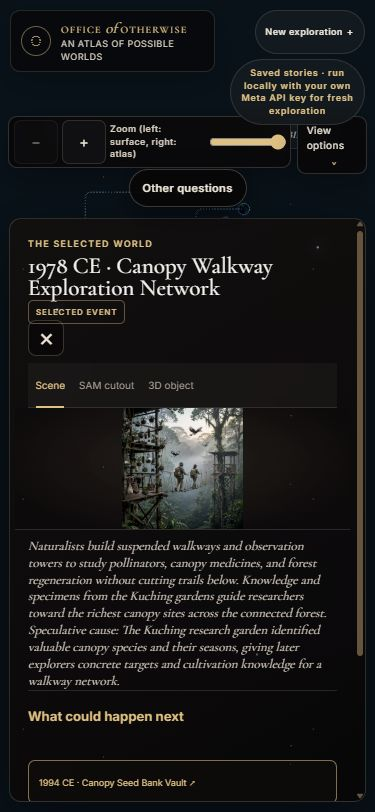
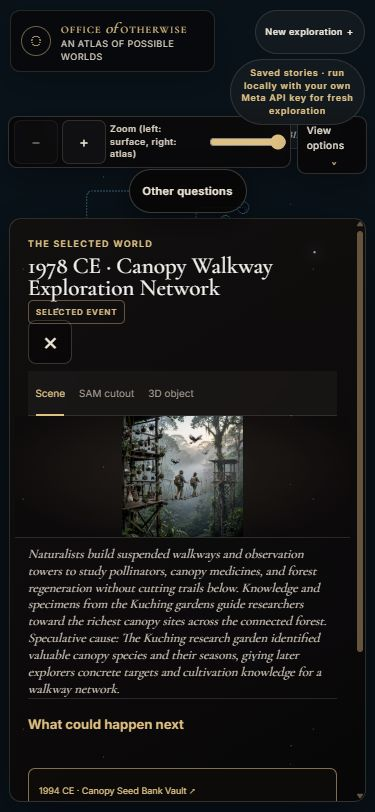
Increase phone question toggle touch target

diff --git a/web/style.css b/web/style.css
@@ -570,7 +570,7 @@ body.invitation-open:has(#atlas-scene[data-atlas-level="atlas"]) .hero-panel{dis
 @media(max-width:430px){
   .map-panel>#atlas-scene{inset:0;width:100%;}
   body.has-story .atlas-toolbar{z-index:11}
-  .atlas-other-questions-toggle{position:absolute;z-index:11;top:169px;left:50%;transform:translateX(-50%);min-height:38px;padding:7px 13px;border:1px solid rgba(236,228,212,.22);border-radius:999px;background:rgba(8,6,7,.92);box-shadow:0 8px 22px #0006;color:var(--parchment);font:600 11px/1 var(--sans);letter-spacing:.03em;cursor:pointer;pointer-events:auto}
+  .atlas-other-questions-toggle{position:absolute;z-index:11;top:169px;left:50%;transform:translateX(-50%);min-height:44px;padding:7px 13px;border:1px solid rgba(236,228,212,.22);border-radius:999px;background:rgba(8,6,7,.92);box-shadow:0 8px 22px #0006;color:var(--parchment);font:600 11px/1 var(--sans);letter-spacing:.03em;cursor:pointer;pointer-events:auto}
   .atlas-other-questions-toggle[aria-pressed="true"]{border-color:var(--gold);color:#ffe4a8;background:rgba(35,27,18,.96)}
   .atlas-other-questions-toggle:focus-visible{outline:2px solid var(--cyan);outline-offset:2px}
   .atlas-other-questions-toggle[hidden]{display:none!important}

diff --git a/test/atlasAppIntegration.test.js b/test/atlasAppIntegration.test.js
@@ -113,7 +113,8 @@ test('small phones keep Surface usable, zoom to Orbit on first zoom-out, and gat
   assert.match(css, /\.map-panel\{[^}]*pointer-events:none/);
   assert.match(css, /\.atlas-other-questions-toggle\{[^}]*pointer-events:auto/, 'the toggle opts back into hit testing inside the noninteractive map panel');
   assert.match(css, /body\.has-story \.atlas-toolbar\{z-index:11\}/, 'phone zoom buttons stack above the story rail');
-  assert.match(css, /\.atlas-other-questions-toggle\{position:absolute;z-index:11;/, 'the question toggle stacks above the story rail too');
+  assert.match(css, /\.atlas-other-questions-toggle\{position:absolute;z-index:11;top:169px;left:50%;transform:translateX\(-50%\);min-height:44px;/, 'the question toggle stacks above the story rail and meets the 44px phone target');
+  assert.ok(169 + 44 < 218, 'the 44px toggle clears the Atlas detail sheet top inset with a 5px gap');
   assert.match(css, /\.map-panel>#atlas-scene\{inset:0;width:100%;\}/, 'the active Atlas remains full width on phones');
 });
 

diff --git a/docs/HACKATHON.md b/docs/HACKATHON.md
@@ -176,3 +176,4 @@ Event: Meta Global AI Developer Hackathon. Building Oct 27 – Nov 4, 2026. **Su
 | 2026-11-01 | Atlas round 3: refresh the wheel recording after route and phone-label adjustments. | |
 | 2026-11-01 | Atlas round 3: return keyboard focus to the scene when the phone question toggle hides. | |
 | 2026-11-01 | Atlas round 3: skip Orbit-to-Atlas endpoint calculations while rendering Surface and Lift. | |
+| 2026-11-01 | Atlas round 3: increase the phone Other questions control to a 44px target and verify it clears the open sheet. | |
